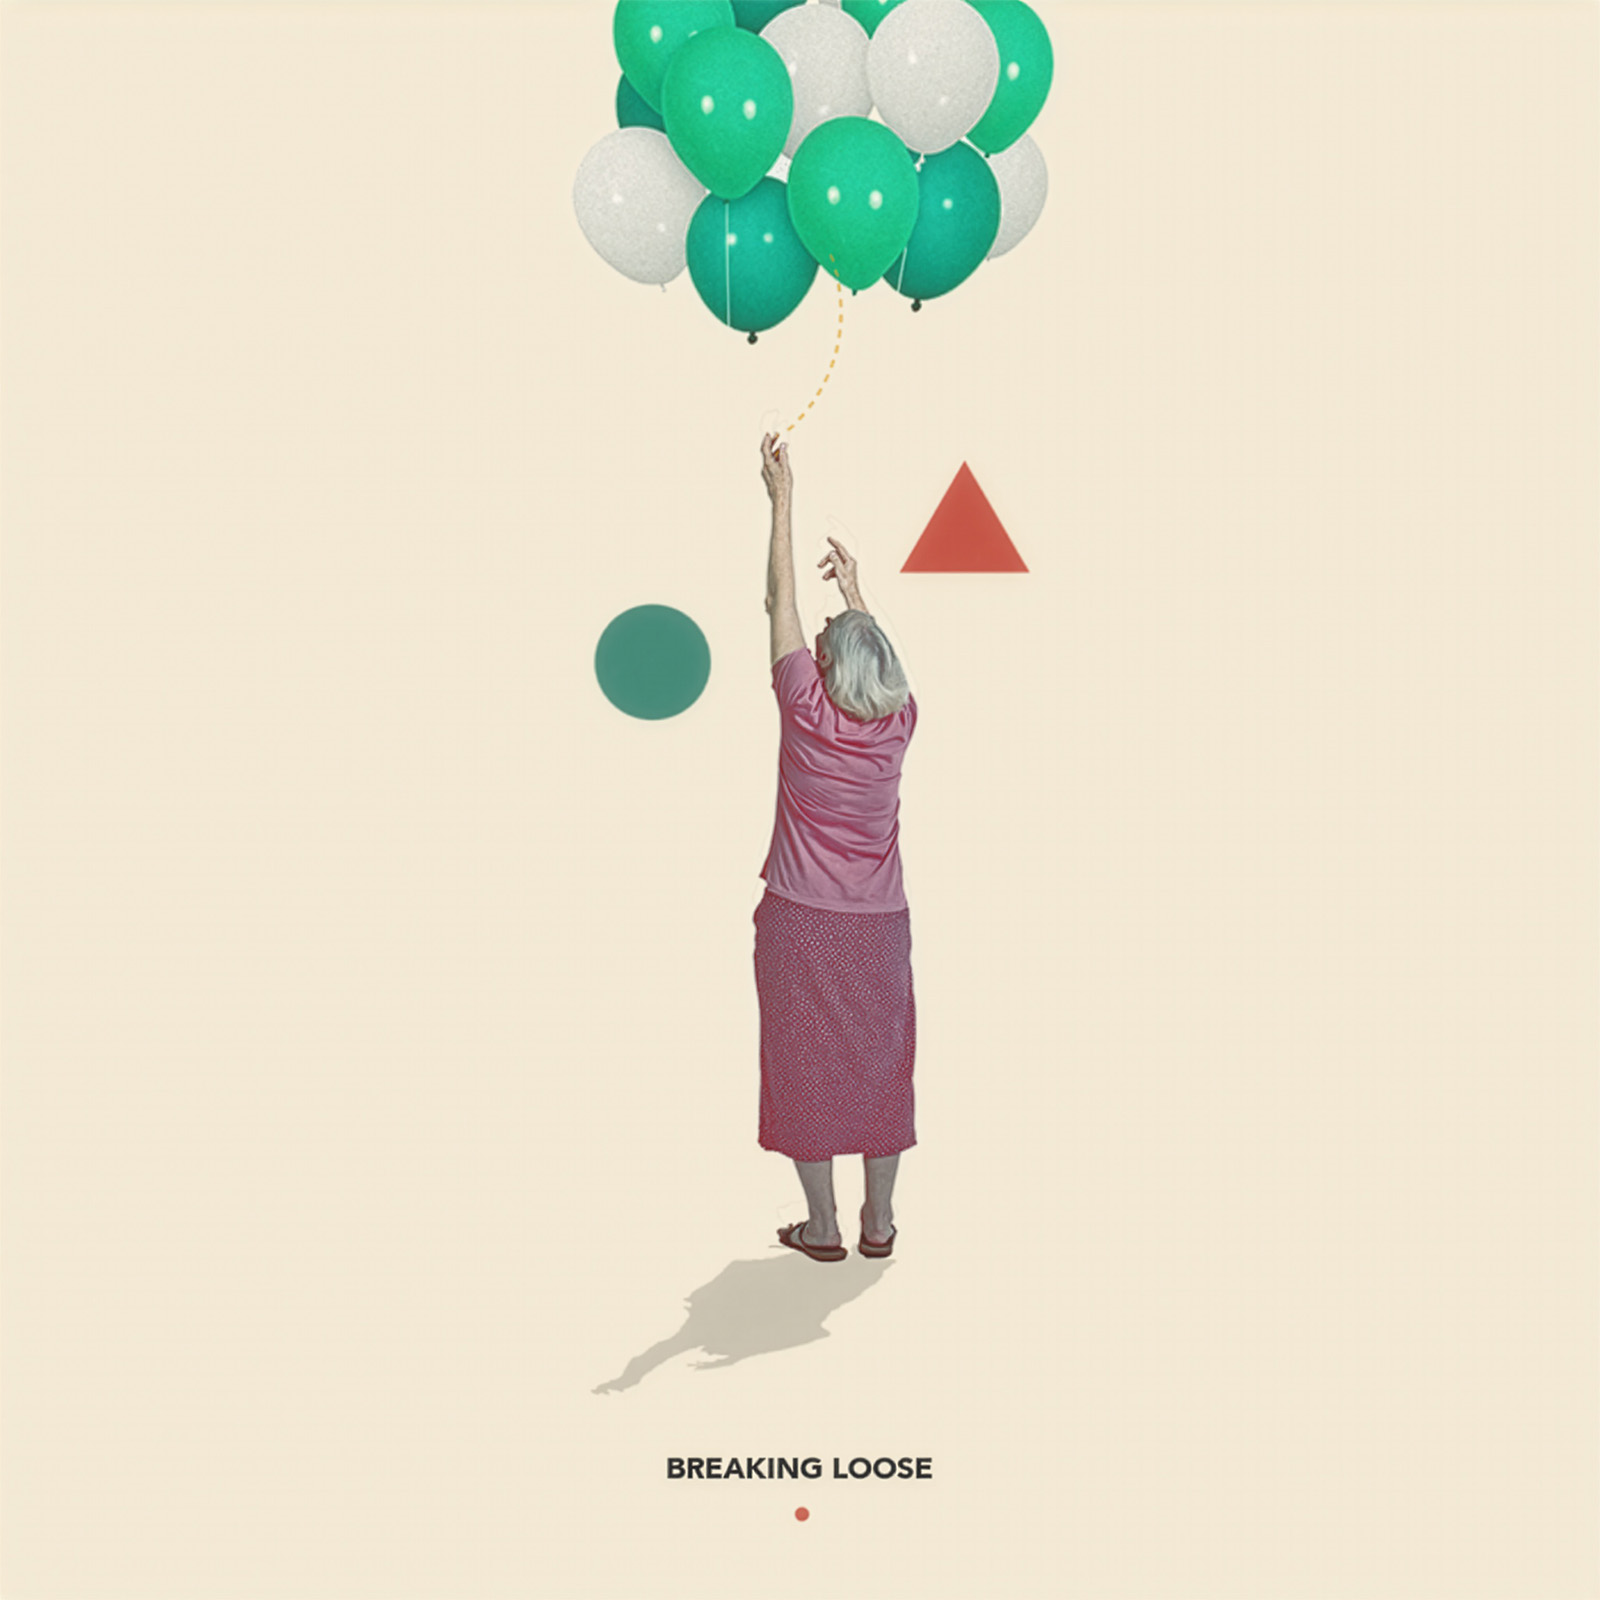
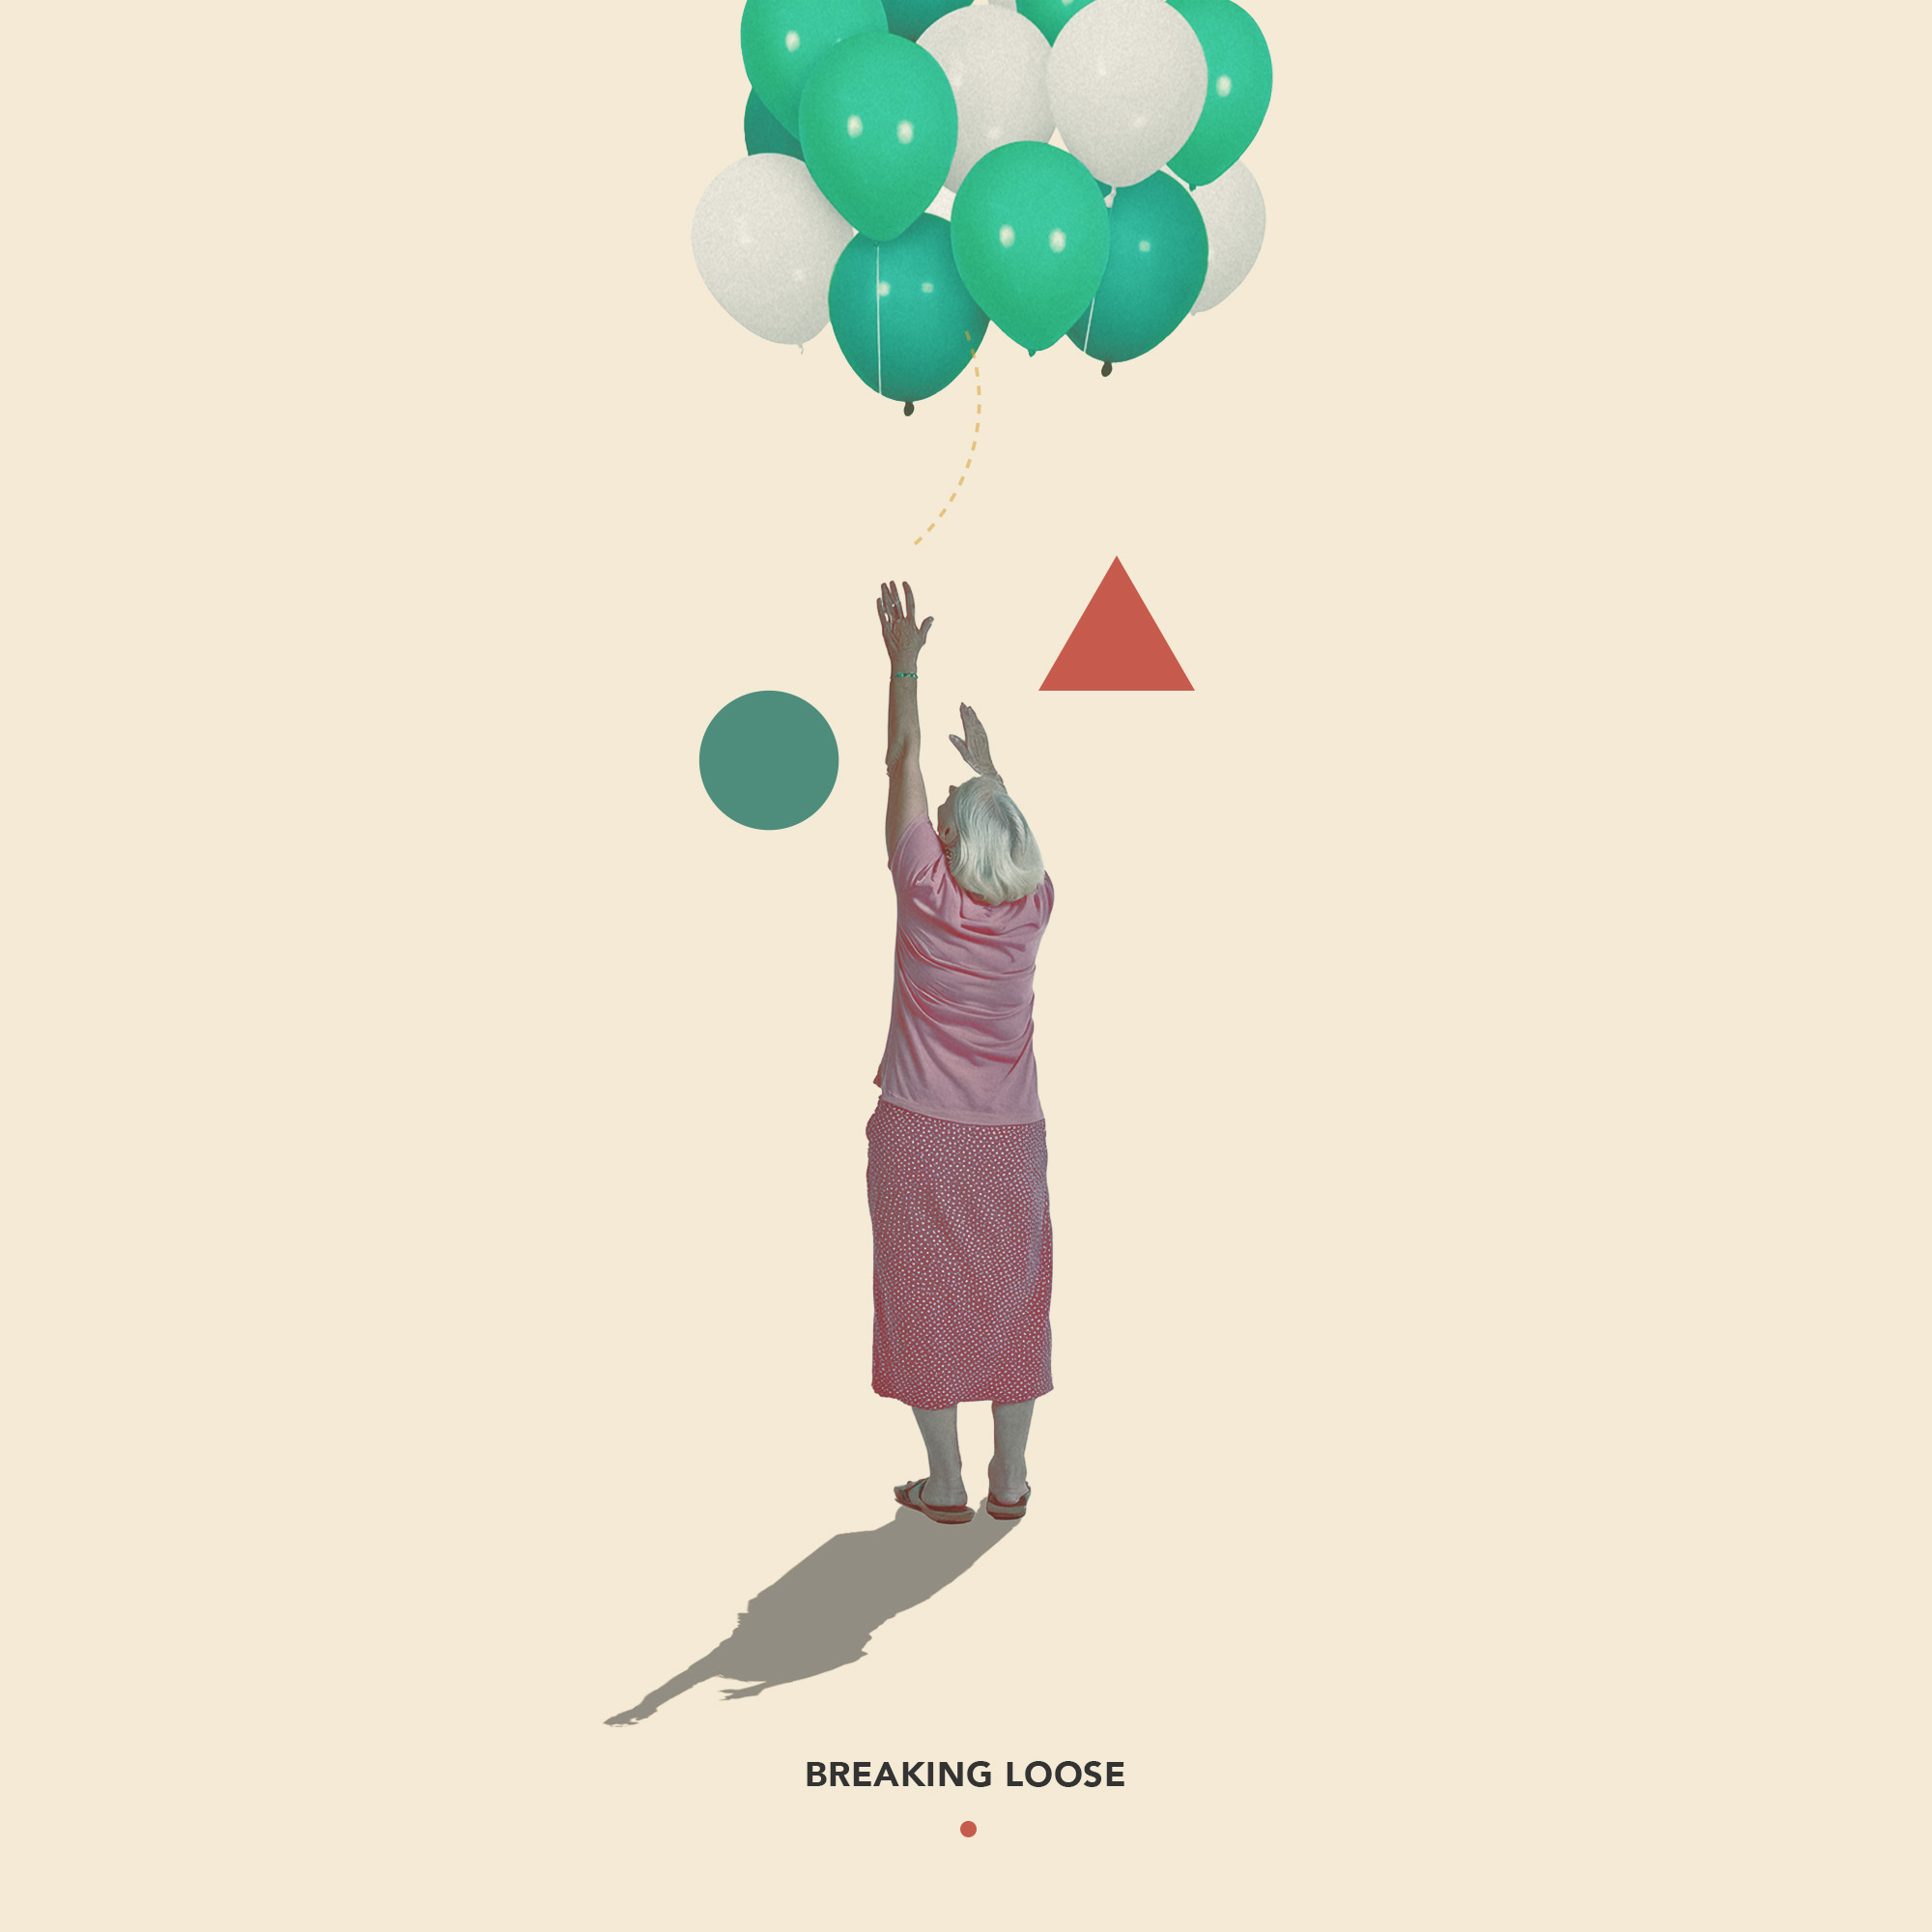
captions and alt

diff --git a/work.html b/work.html
@@ -37,7 +37,7 @@
   <section class="mb-24 max-w-xl">
     <h1 class="text-lg mb-4">Soft absurdities</h1>
     <p class="text-gray-500 text-sm leading-relaxed">
-      Collage work exploring systems, interfaces, and the quiet mechanisms that shape behaviour.
+      This collage collection turns everyday objects into surreal scenes. It uses humour and scale to explore freedom, play, connection, love, and ambition.
     </p>
   </section>
 
@@ -47,37 +47,37 @@
     <!-- IMAGE -->
 
          <figure class="max-w-[900px]">
-  <img src="img/breaking_loose.jpg" class="w-full" alt="Breaking loose" />
+  <img src="img/breaking_loose.jpg" class="w-full" alt="An older woman reaches toward a cluster of green and white balloons floating above her." />
 <figcaption class="mt-3 text-xs text-gray-400 leading-relaxed">
   <span class="block font-medium text-gray-600 tracking-wide uppercase">
     Breaking loose
   </span>
   <span>
-    A system that conceals labour behind a simplified interface
+    Reaching for the freedom to rise higher.
   </span>
 </figcaption>
 </figure>
 
      <figure class="max-w-[900px]">
-  <img src="img/secret_time.jpg" class="w-full" alt="Secret time" />
+  <img src="img/secret_time.jpg" class="w-full" alt="Children climb and play inside a giant broccoli stalk while an adult watches nearby." />
 <figcaption class="mt-3 text-xs text-gray-400 leading-relaxed">
   <span class="block font-medium text-gray-600 tracking-wide uppercase">
     Secret time
   </span>
   <span>
-    A system that conceals labour behind a simplified interface
+    A hidden world of play inside everyday life.
   </span>
 </figcaption>
 </figure>
 
      <figure class="max-w-[900px]">
-  <img src="img/glass_ceiling.jpg" class="w-full" alt="Glass ceiling" />
+  <img src="img/glass_ceiling.jpg" class="w-full" alt="Women hang from balloons below a glass ceiling labelled 33% in top roles." />
 <figcaption class="mt-3 text-xs text-gray-400 leading-relaxed">
   <span class="block font-medium text-gray-600 tracking-wide uppercase">
     Glass ceiling
   </span>
   <span>
-    A system that conceals labour behind a simplified interface
+    Rising toward leadership, but still below the glass ceiling.
   </span>
 </figcaption>
 </figure>
@@ -89,19 +89,19 @@
     Romeo x Julliet
   </span>
   <span>
-    A system that conceals labour behind a simplified interface
+    High-rise romance
   </span>
 </figcaption>
 </figure>
 
 <figure class="max-w-[900px]">
-  <img src="img/cats_cradle.jpg" class="w-full" alt="Cats cradle" />
+  <img src="img/cats_cradle.jpg" class="w-full" alt="Green cats run across strings stretched between two hands." />
 <figcaption class="mt-3 text-xs text-gray-400 leading-relaxed">
   <span class="block font-medium text-gray-600 tracking-wide uppercase">
     Cat's cradle
   </span>
   <span>
-    A system that conceals labour behind a simplified interface
+    Moving carefully through a playful web of connections.
   </span>
 </figcaption>
 </figure>
@@ -118,25 +118,25 @@
 </figcaption>
 </figure>
 <figure class="max-w-[900px]">
-  <img src="img/eternal_gift.jpg" class="w-full" alt="Eternal gift" />
+  <img src="img/eternal_gift.jpg" class="w-full" alt="A man crouches under a tap with a lemon beside it, waiting for a drop of water." />
 <figcaption class="mt-3 text-xs text-gray-400 leading-snug">
   <span class="block font-medium text-gray-600 tracking-wide uppercase">
     Eternal gift
   </span>
   <span>
-    A system that conceals labour behind a simplified interface
+    Waiting patiently for one small drop to arrive.
   </span>
 </figcaption>
 </figure>
 
 <figure class="max-w-[900px]">
-  <img src="img/sacred_space.jpg" class="w-full" alt="Sacred space" />
+  <img src="img/sacred_space.jpg" class="w-full" alt="A large egg-shaped building with a door stands between two people taking photos." />
 <figcaption class="mt-3 text-xs text-gray-400 leading-snug">
   <span class="block font-medium text-gray-600 tracking-wide uppercase">
     Sacred space
   </span>
   <span>
-    A system that conceals labour behind a simplified interface
+    A private place that invites attention but keeps its mystery.
   </span>
 </figcaption>
 </figure>